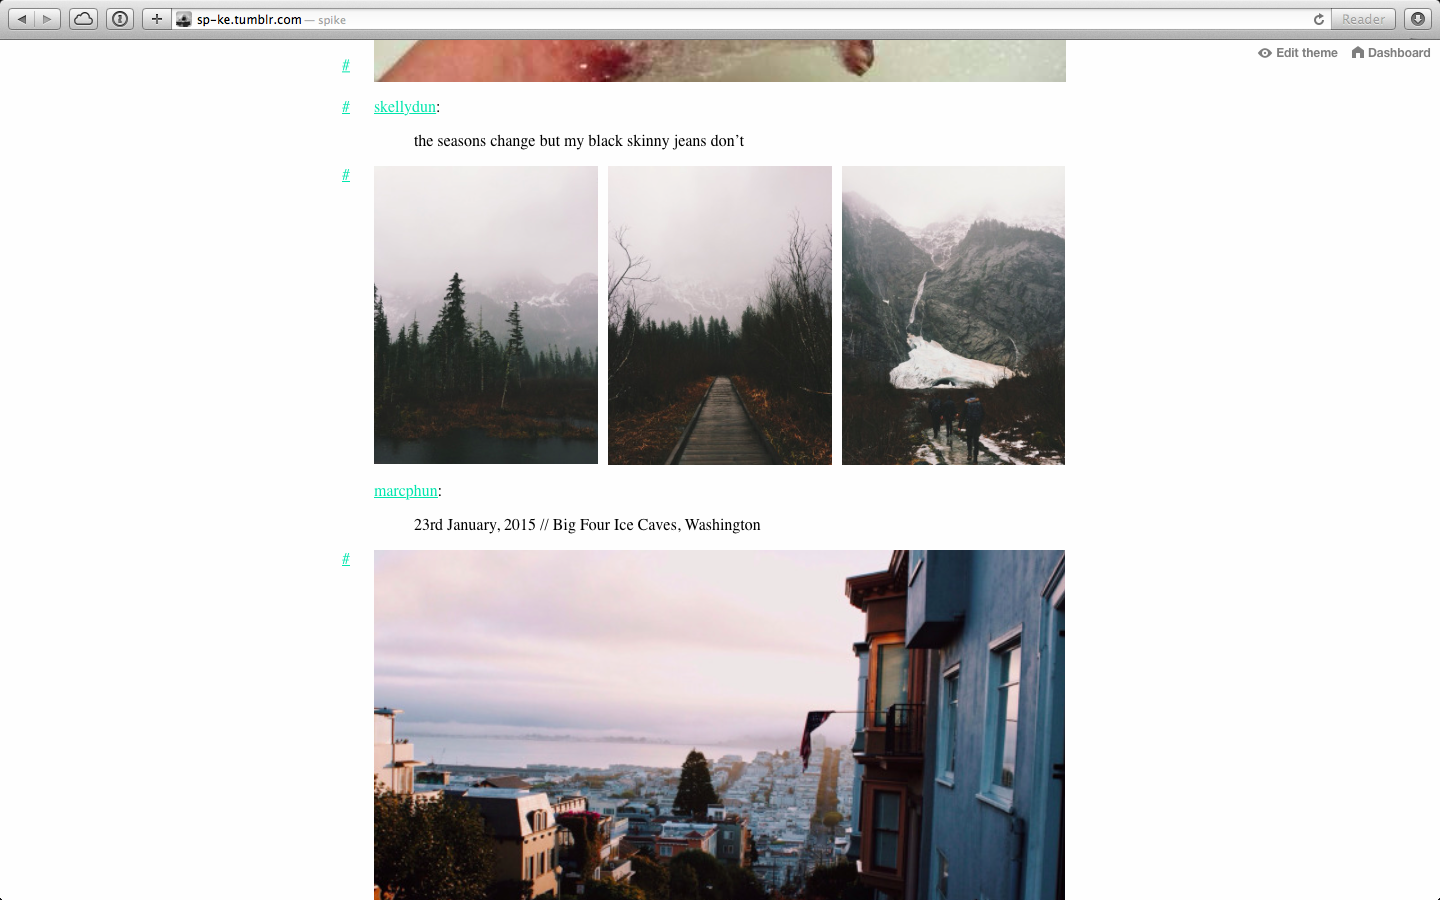
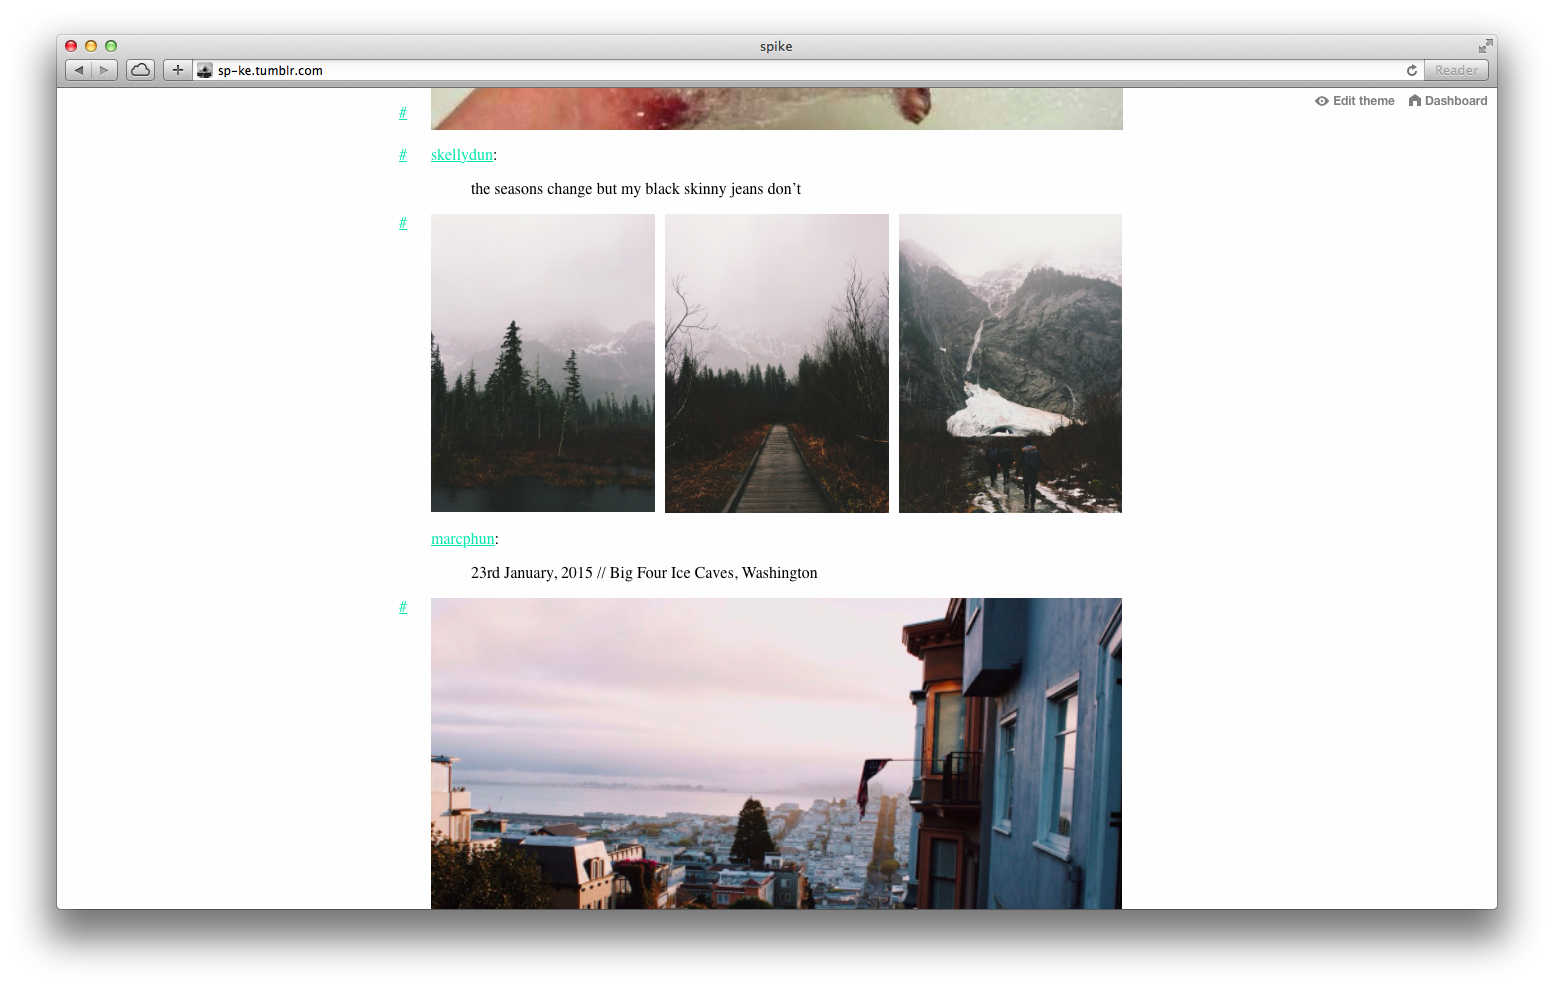
Screenshots improved
New screenshot added
Drop shadows added to screenshots

Changed region(s): [[0.0, 0.0, 1.0, 1.0]]

diff --git a/README.md b/README.md
@@ -3,7 +3,11 @@ Chandelier Blank
 
 Chandelier Blank is a [Tumblr theme](https://www.tumblr.com/docs/en/custom_themes) that emphasises content and de-emphasises metadata *(notes, sources, etc.)* structured to allow for easy modification.
 
-![Screenshot of the Chandelier Blank index page](screenshots/index.png)
+![An example screenshot of the Chandelier Blank index page](screenshots/index.png)
+
+![An example screenshot of the Chandelier Blank lightbox](screenshots/lightbox.png)
+
+> *Uses Tumblr's built-in lightbox for single photo posts; not just photosets*
 
 Features
 --------
